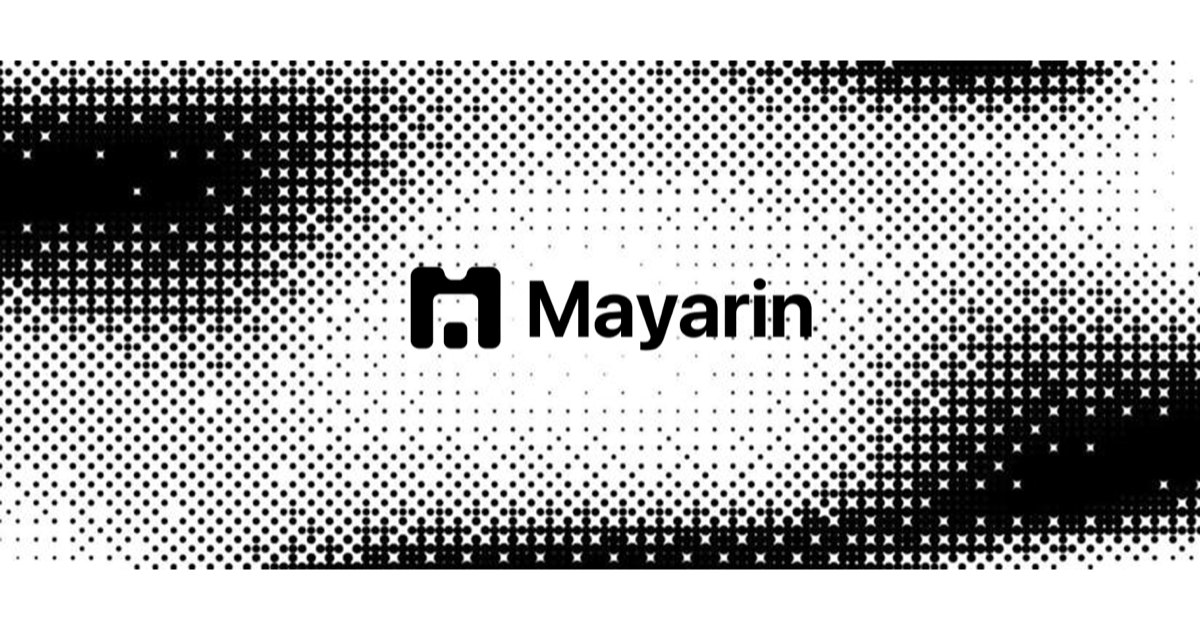
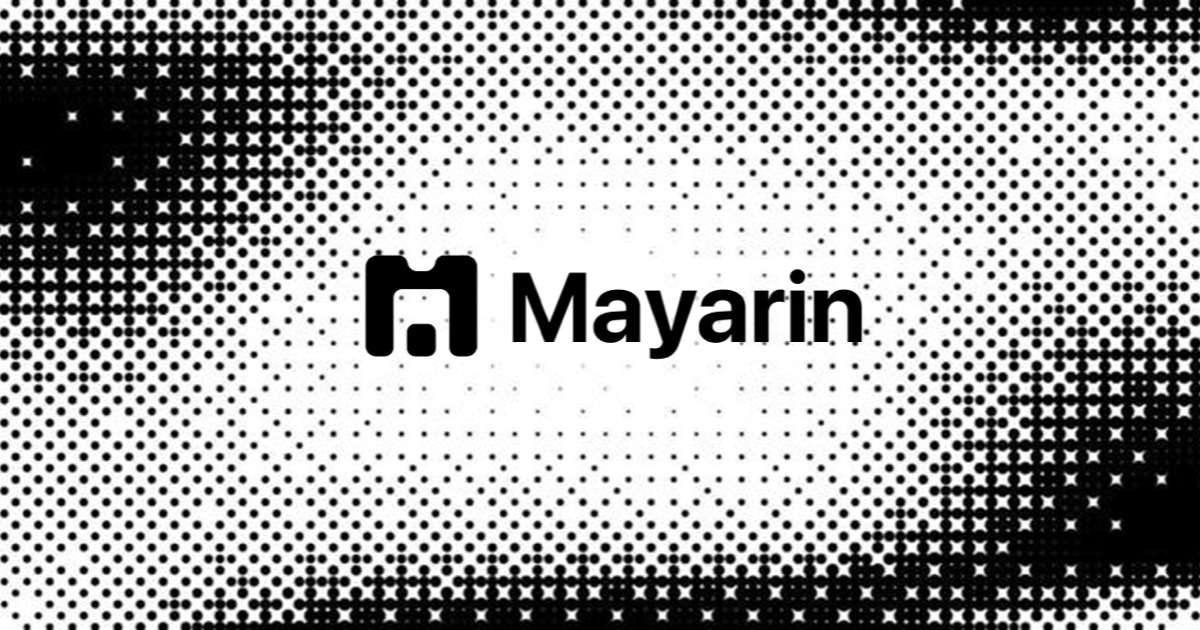
fix(landing): opengraph issue and enhancement

diff --git a/apps/landing/index.html b/apps/landing/index.html
@@ -12,6 +12,7 @@
     <meta name="author" content="Mayarin" />
     <link rel="canonical" href="https://mayarin.xyz/" />
     <meta name="theme-color" content="#ffffff" />
+    <link rel="icon" href="/favicon.svg" type="image/svg+xml" />
     <link rel="icon" href="/favicon.ico" sizes="48x48" type="image/x-icon" />
     <link rel="icon" href="/favicon-16x16.png" sizes="16x16" type="image/png" />
     <link rel="icon" href="/favicon-32x32.png" sizes="32x32" type="image/png" />
@@ -30,12 +31,12 @@
       property="og:description"
       content="Accept global crypto payments, price in local currency and settle in stablecoins through one programmable clearing layer."
     />
-    <meta property="og:image" content="https://mayarin.xyz/og-image.png" />
+    <meta property="og:image" content="https://mayarin.xyz/og-image.jpg" />
     <meta
       property="og:image:secure_url"
-      content="https://mayarin.xyz/og-image.png"
+      content="https://mayarin.xyz/og-image.jpg"
     />
-    <meta property="og:image:type" content="image/png" />
+    <meta property="og:image:type" content="image/jpeg" />
     <meta property="og:image:width" content="1200" />
     <meta property="og:image:height" content="630" />
     <meta
@@ -44,6 +45,7 @@
     />
 
     <meta name="twitter:card" content="summary_large_image" />
+    <meta name="twitter:site" content="@mayarinxyz" />
     <meta
       name="twitter:title"
       content="Mayarin — Programmable clearing infrastructure"
@@ -52,7 +54,7 @@
       name="twitter:description"
       content="Accept global crypto payments, price in local currency and settle in stablecoins through one programmable clearing layer."
     />
-    <meta name="twitter:image" content="https://mayarin.xyz/og-image.png" />
+    <meta name="twitter:image" content="https://mayarin.xyz/og-image.jpg" />
     <meta
       name="twitter:image:alt"
       content="Mayarin programmable clearing infrastructure for global payments"
